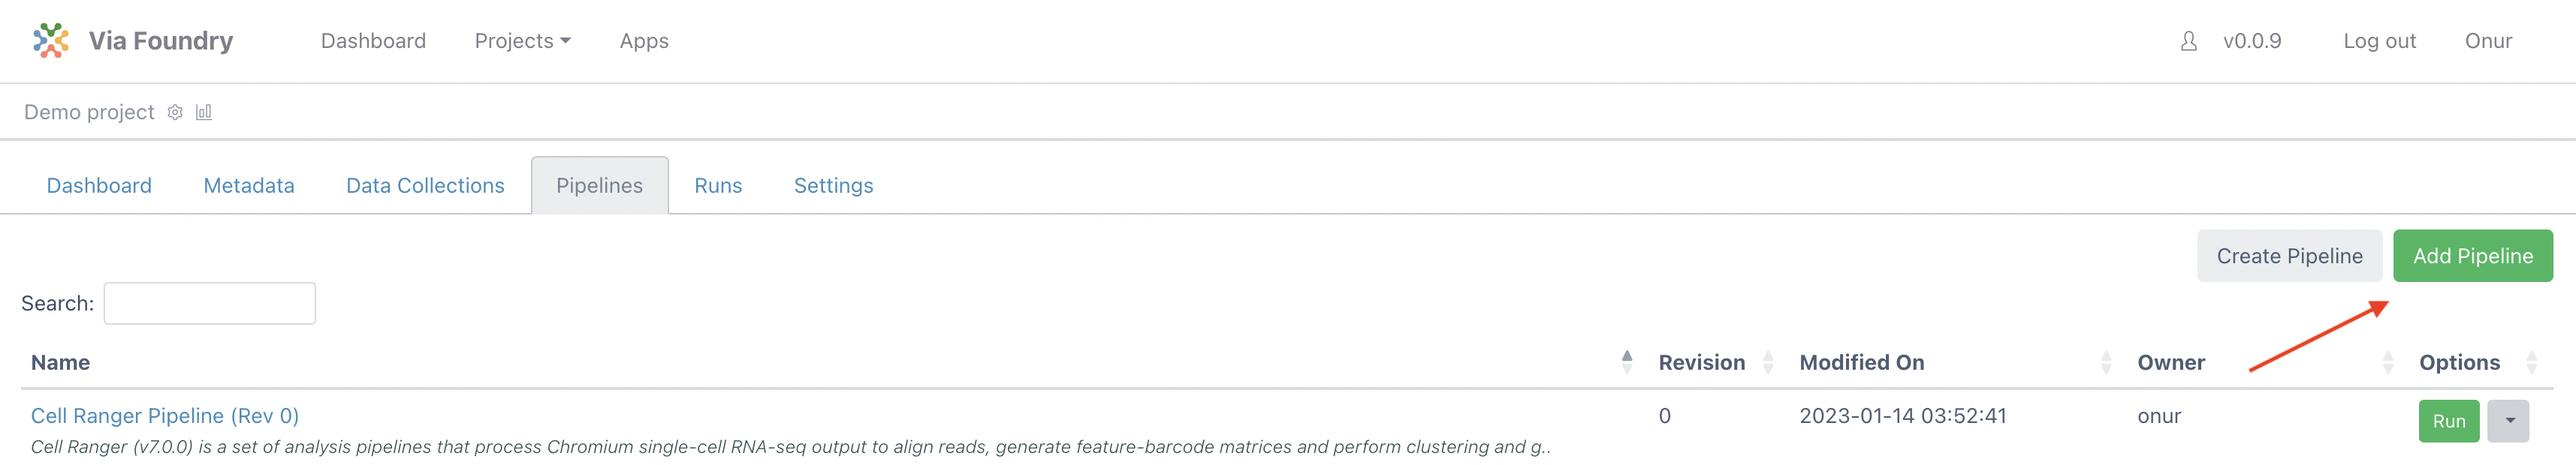
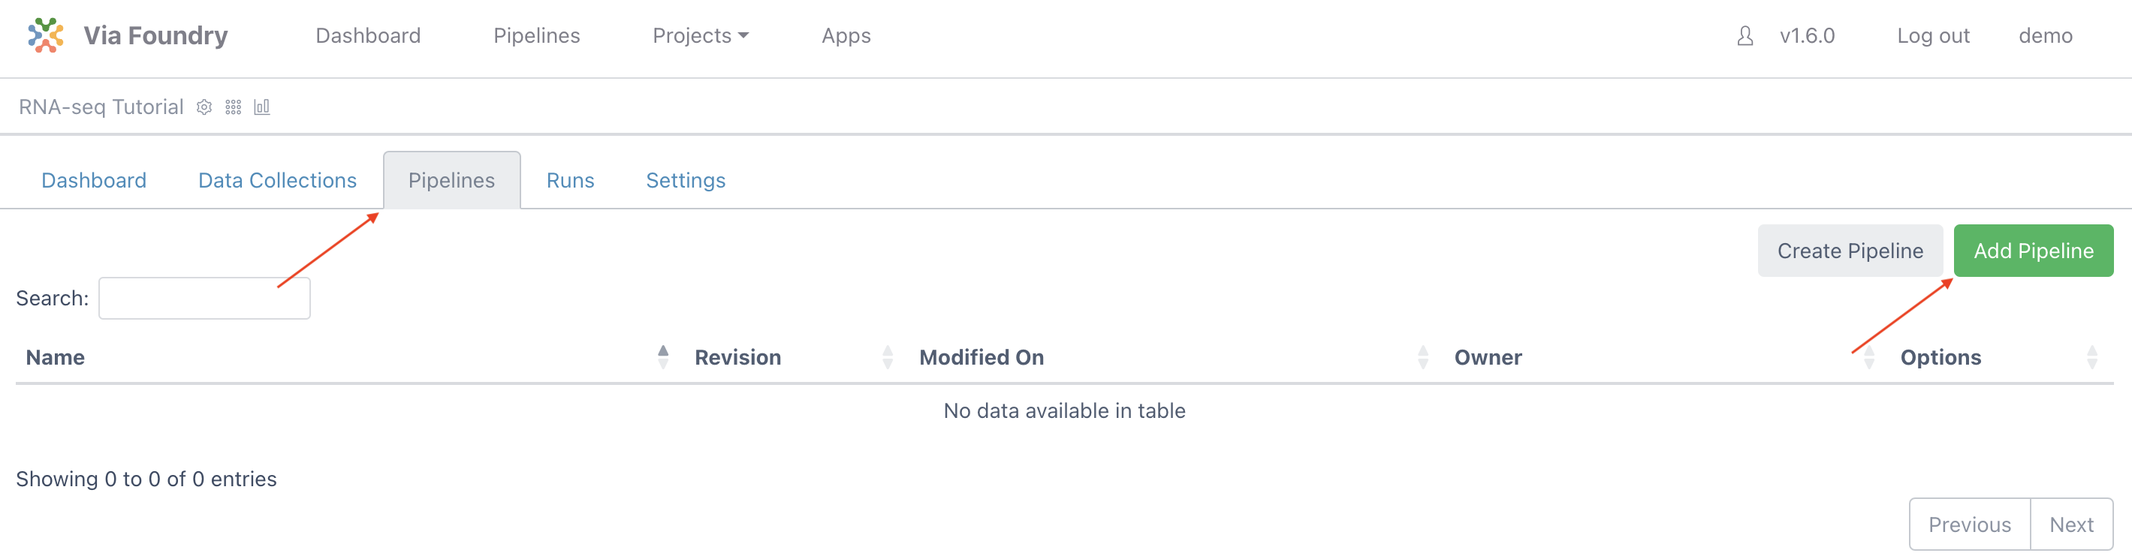
update RNA-seq demo

diff --git a/docs/ViaFoundry/demo_rna-seq_tutorial.md b/docs/ViaFoundry/demo_rna-seq_tutorial.md
@@ -1,71 +1,90 @@
 Expected learning outcome
 ========
 
-To understand the basics of Foundry, and do RNA-Seq analysis with sample mouse data.
+To understand the basics of running a pipeline in Foundry by performing RNA-seq analysis on sample mouse data.
 
 # Before you start
 
-Please go to <https://www.viafoundry.com> and login into your account. If you have an issue about login, please let us know about it (support@viascientific.com). We will set an account for you.
+Please go to <https://www.viafoundry.com> and login into your account. If you have any issues logging in, please let us know (support@viascientific.com) and we will create an account for you.
 
-Creating a Run
+Creating a Project
 ========
+In Foundry, analysis is organized by project. Each run belongs to a project and a project can consist of multiple runs.
 
-Once logged in, click on the `Projects` section at the top menu and click `Add a New Project` button. This is the place to configure your project. To access pipelines, click `Pipelines` tab and then click `Add Pipeline` button. 
+Once logged in, to create and configure a new project click on the `Projects` tab in the top menu and select `Add a New Project` button in the dropdown. In the pop-up, give the project a name (e.g. `RNA-seq Tutorial`) and click save.
+
+![image](../rnaseq_images/addproject1.png)
+
+Attaching Pipeline to Project
+========
+To help with organization, pipelines used in a project are attached to that project.
+
+**Note:** The same pipeline can be attached to multiple projects.
+
+ To attach a pipeline select the `Pipelines` tab and then click the `Add Pipeline` button. 
 
 ![image](../rnaseq_images/addpipeline1.png)
 
-1. Click on `Add` button on "RNA-Seq Pipeline" and close the window. 
+Locate the `RNA-seq Pipeline`, click on the `Add` button, and then close the window.
 
-    ![image](../rnaseq_images/addpipeline2.png)
+![image](../rnaseq_images/addpipeline2.png)
 
-2. Now click `Run` button of the pipeline on the table.
+**Note:** For the purposes of this tutorial, be sure to add `RNA-seq Pipeline`, and **not** `RNA-seq Pipeline (NF-Core)`
 
-    ![image](../rnaseq_images/addpipeline3.png)
+Creating a Run
+========
+Once the project is created and a pipeline is attached, you are ready to create a run:
 
-3. Run page will be loaded. Under Run Environment, select "Via Demo Environment(AWS Batch)"
-4. Under User Inputs, next to `reads`, click `Enter File`
-5. Click `Add File` button to enter new files.
-6. Next to "1. File Location", enter:
+1. Click the `Run` button next to the `RNA-seq Pipeline` entry in the table to load the "Run Page"
 
-    ```
-    s3://viascientific/run_data/test_data/fastq_mouse
-    ```
+    ![image](../rnaseq_images/runpipeline1.png)
 
-7. and click the magnifying glass icon. The box below should populate with files like so:
+2. On the run page, under "Run Environment" select `Via Demo Environment (AWS Batch)`
+3. In the Inputs section, next to `reads`, click `Enter File`
+4. In the files tab, click `Add File` button to enter new files.
+5. Next to "1. File Location", enter:
+
+	```
+	s3://viascientific/run_data/test_data/fastq_mouse
+	```
+
+6. Click the magnifying glass icon. The box below will populate with files like so:
 
     ![image](../rnaseq_images/addfiles1.png)
 
-8. Next to `3. Collection Type`, choose `Paired List`
-9. Under `4. File Pattern`, next to `Forward Pattern`, type `.1`. Similarly,  type `.2` for `Reverse Pattern`.
+7. In the `3. Collection Type` dropdown, select `Paired List`
+8. Under `4. File Pattern`, next to `Forward Pattern`, enter `.1`. Similarly, enter `.2` for `Reverse Pattern`.
 
     ![image](../rnaseq_images/addfiles2.png)
 
-10. Click `Add All Files` button. You should now see 6 entries below.
+9. Click `Add All Files` button. You should now see 6 entries below.
 
     ![image](../rnaseq_images/addfiles3.png)
 
-11. Next to `5. Collection Name`, type `rna-seq mousetest paired` and Click `Save Files`
-12. On the "Select/Add Input File" screen which should now have 6 entries, click "Save".
-13. For "mate", choose "pair"
-14. For genome_build, choose "mousetest"
-15. Leave the rest as defaults
-16. Click Run in the top right. RNA-Seq pipeline runs typically take several minutes to complete for this dataset.
-17. Navigate to the Log tab and click on log.txt to see progress on your run.
-18. Once the blue "Running" in the top right changes to a green "Completed" go to the Report tab to see the final reports.
-19. Click on MulitiQC, and scroll to find this plot, which shows aligned reads per library:
+10. Next to `5. Collection Name`, enter `rna-seq mousetest paired`. The final three boxes can be left blank. Click `Save Files`
+11. The "Select/Add Input File" screen will now have 6 entries. Click "Save".
+12. For "mate", select `pair`
+13. For "genome_build", select `mousetest_mm10`
+14. Leave the rest of the inputs as defaults
+15. Click `Run` in the top right and then select `Start`. For this dataset, the RNA-seq pipeline run typically takes several minutes to complete.
+16. Navigate to the Log tab and click on log.txt to follow the progress of your run.
+17. Once the status bar in the top right changes from a blue "Running" status to a green "Completed" status go to the Report tab to see the final reports.
+18. Click on `Mulitiqc` to open the "MultiQC" section. Scroll down to find this plot, which shows aligned reads per library:
 
     ![image](../rnaseq_images/report1.png)
 
-20. Click on Summary to check mapping rates:
+19. Open the `Overall Summary` section to check mapping rates:
 
     ![image](../rnaseq_images/report2.png)
 
-21. Click on RSEM Summary to download count table:
+20. Open the `RSEM Module` section. that has a "View Format" of "Table" to download a count table:
 
     ![image](../rnaseq_images/report3.png)
 
-22. Click on DEBrowser to do Differential Expression Analysis.
+21. Open the `RSEM Module` section. that has a "View Format" of "App" and select the "DEBrowser App" and click "Launch App" to perform Differential Expression Analysis with DEBrowser.
 
     ![image](../rnaseq_images/report4.png)
 
-Congratulations! You have run and tested a RNA-Seq pipeline on Foundry!
+**Note:** For the purposes of speeding up the runtime of this tutorial, the demo dataset has been downsampled to only include a few genes. Differential expression analysis graphs will look very sparse with this dataset.
+
+Congratulations! You have run and tested a RNA-seq pipeline on Foundry!
